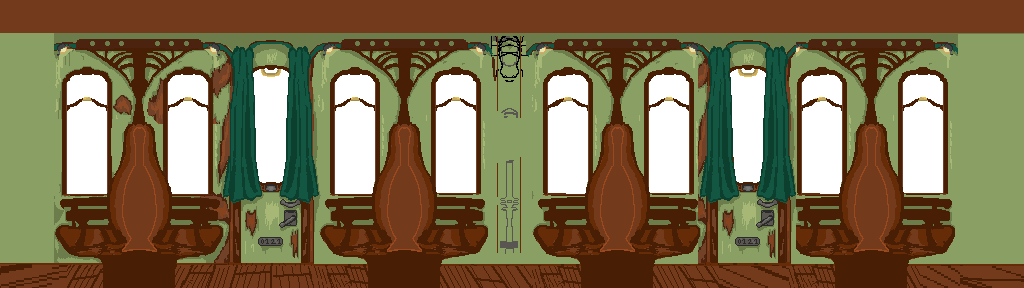
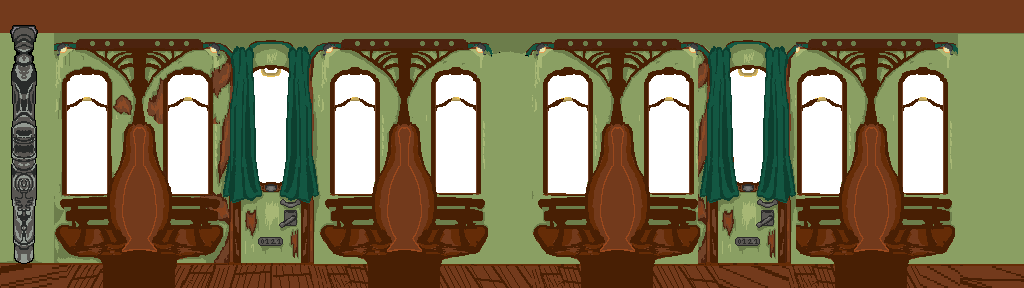
Updated Assets
Added new assets, moved them to better location. It now has a proper drop method for the valve

diff --git a/src/scenes/mainScene.js b/src/scenes/mainScene.js
@@ -39,13 +39,17 @@ export default class MainScene extends Phaser.Scene {
         //update the bounds as the player moves for the world based on scaling
         this.physics.world.setBounds(0, 0, background.width * background.scaleX, background.height * background.scaleY);
 
+       
+
         
         
           //interactable - needs to be changed to actual lever
           this.interactiveItem = this.physics.add.staticGroup();
-          const lever = this.interactiveItem.create(50, 400, 'egg');
+          const lever = this.interactiveItem.create(48, 444, 'valveArea').setScale(2.4);
           lever.firstInteraction = false;
           lever.name = 'leaver';
+
+          this.valveLayer = this.add.image(48, 444,'valveLayer').setScale(2).setVisible(false);
 
 
 
@@ -84,14 +88,15 @@ export default class MainScene extends Phaser.Scene {
         //collectable 
 
         this.eggs = this.physics.add.staticGroup();
-        this.eggs.create(200, 504, 'egg').setName('eggs_brown');
-        this.eggs.create(400, 504, 'egg').setName('eggs_brown');
-        this.eggs.create(600, 504, 'egg').setName('eggs_golden');
-        this.eggs.create(600, 504, 'egg').setName('eggs_golden');
-        this.eggs.create(600, 504, 'egg').setName('eggs_golden');
-        this.eggs.create(600, 504, 'egg').setName('eggs_golden');
-        this.eggs.create(600, 504, 'egg').setName('eggs_golden');
-        this.eggs.create(600, 504, 'egg').setName('eggs_golden');
+        this.eggs.create(200, 504, 'eggBrown').setName('eggs_brown');
+        this.eggs.create(400, 504, 'eggBrown').setName('eggs_brown');
+        this.eggs.create(1600, 118, 'eggGold').setName('eggs_golden');
+        this.eggs.create(900, 118, 'eggGold').setName('eggs_golden');
+        this.eggs.create(600, 504, 'eggWhite').setName('eggs_white');
+        this.eggs.create(1400, 178, 'eggGreen').setName('eggs_saphire');
+        this.eggs.create(600, 504, 'eggWhite').setName('eggs_white');
+        this.eggs.create(1800, 504, 'eggWhite').setName('eggs_white');
+
 
         //avoidable 
 
@@ -198,7 +203,7 @@ export default class MainScene extends Phaser.Scene {
         this.facingDirection = handleJumping(this, -250, 340);
         console.log('COUNTER ', this.eggCounter);
         if(this.eggCounter === 8){
-            this.eggs.create(900,504, 'egg').setName('valve');
+            this.eggs.create(900,504, 'valveDrop').setName('valve');
             this.eggCounter =0; 
         }
     }

diff --git a/src/scenes/menuScene.js b/src/scenes/menuScene.js
@@ -13,17 +13,56 @@ export default class MenuScene extends Phaser.Scene {
             fill: '#ffffff',
         }).setOrigin(0.5);
 
+        
+         //lets create a user name
+        this.add.text(width / 2, height / 2 - 50, 'Enter YOUR username: ', 
+            {
+            fontSize: '32px',
+            fill: '#ffffff'
+        } 
+        ).setOrigin(0.5);
+    //the bits in style are css
+        const inputElement = this.add.dom(
+            width /2,
+            height/2 , 
+            'input',{
+                type: 'text', 
+                name: 'username', 
+                placeholder: 'Username', 
+                style: 'font-size:20px; width: 200px; padding: 10px;'
+            }
+        ).setOrigin(0.5);
+
+        console.log('input value', inputElement);
+
         // "Start Game" button
-        const startButton = this.add.text(width / 2, height / 2, 'Start Game', {
-            font: '30px Arial',
-            fill: '#ff0',
-        })
-            .setOrigin(0.5)
-            .setInteractive();
+    const startButton = this.add.dom( width / 2, height / 2 + 50, 
+    'button', { style: 'font-size: 20px; padding: 10px 20px;' }, 
+    'Start Game' ).setOrigin(0.5);
+           
+        startButton.addListener('click');
+         startButton.on('click', () => { 
+            const inputUsername = inputElement.node;
+            console.log('input node value', inputUsername.value);
+             if (inputUsername && inputUsername.value.trim() !=='') { 
 
-        startButton.on('pointerdown', () => {
-            this.scene.start('MainScene'); 
+                //this is the code area that communicates with the backend docker container
+                //fetch end point, get respons then do something
+
+
+
+
+
+                this.scene.start('MainScene', { username: inputUsername.value });
+             } 
+             else { 
+                this.add.text( width / 2, height / 2 + 100,
+                     'Please enter a username',
+                      { fontSize: '20px', fill: '#ff0000' } )
+                      .setOrigin(0.5);
+                     }
+
         });
-
     }
 }
+

diff --git a/src/js/preload.js b/src/js/preload.js
@@ -9,7 +9,13 @@ export function preload() {
     this.load.spritesheet('characterJumpLeft', 'assets/left_jump_sprite_sheet.png', { frameWidth: 64, frameHeight: 70 });
     this.load.spritesheet('characterRunLeft', 'assets/left_run_sprite_sheet.png', { frameWidth: 70, frameHeight: 70 });
     this.load.spritesheet('characterRunRight', 'assets/run_sprite_sheet.png', { frameWidth: 70, frameHeight: 70 });
-    this.load.image('egg', 'assets/place_holder.png');
+    this.load.image('eggBrown', 'assets/brown_egg.png');
+    this.load.image('eggGold', 'assets/gold_egg.png');
+    this.load.image('eggGreen', 'assets/green_egg.png');
+    this.load.image('eggWhite', 'assets/white_egg.png');
+    this.load.image('valveDrop', 'assets/valve_drop.png');
+    this.load.image('valveArea', 'assets/interactive_valve_area.png')
+    this.load.image('valveLayer', 'assets/valve_layer.png')
     this.load.image("ground",'assets/ground.png');
     this.load.image('enemy', 'assets/placeholder_enemy.png',{frameWidth:104, frameHeight: 192});
     this.load.image('steam', 'assets/steam.png');

diff --git a/src/scenes/overlayScene.js b/src/scenes/overlayScene.js
@@ -63,6 +63,7 @@ export default class JournalOverlayScene extends Phaser.Scene {
         container.add(this.add.text(startX, startY, `Brown Eggs: ${inventory.collectables.eggs.brown}`, { fill: '#fff' }));
         container.add(this.add.text(startX, startY + lineHeight, `White Eggs: ${inventory.collectables.eggs.white}`, { fill: '#fff' })); 
         container.add(this.add.text(startX, startY + 2 * lineHeight, `Golden Eggs: ${inventory.collectables.eggs.golden}`, { fill: '#fff' }));
-        container.add(this.add.text(startX, startY + 4 * lineHeight, `Valve?: ${inventory.equippable.valve}`, { fill: '#fff' }));
+        container.add(this.add.text(startX, startY + 3* lineHeight, `Saphire Eggs: ${inventory.collectables.eggs.saphire}`, { fill: '#fff' }));
+        container.add(this.add.text(startX, startY + 6 * lineHeight, `Valve: ${inventory.equippable.valve}`, { fill: '#fff' }));
     }
 }

diff --git a/src/js/collision.js b/src/js/collision.js
@@ -24,6 +24,7 @@ function inventoryUpdator(itemName, scene){
             if (type === 'brown') collectables.eggs.brown += 1;
             else if (type === 'white') collectables.eggs.white += 1;
             else if (type === 'golden') collectables.eggs.golden += 1;
+            else if (type === 'saphire') collectables.eggs.saphire += 1;
           },
           posters: (collectables) => {
             const type = itemName.toString().split('_')[1];

diff --git a/src/scenes/startScene.js b/src/scenes/startScene.js
@@ -72,10 +72,21 @@ export default class StartScene extends Phaser.Scene {
     }
 
     create() {
+
+       
+
+
+
+
+
+
+
         this.music = this.sound.play('mainMusic',{loop: true});
         const logo= this.add.image(this.sys.game.config.width /2, this.sys.game.config.height/2, 'logo');
         logo.setScale(0.5);
         this.logo =logo;
+
+        
 
 
         if (logo) {

diff --git a/src/js/movement.js b/src/js/movement.js
@@ -121,7 +121,9 @@ export function interactionArea(scene,staticGroup){
 //i need an action that occurs once the useValve is initated 
 function useValve(scene, item){
 
+
     scene.inventory.equippable.valve = false;
+    scene.valveLayer.setVisible(true);
     scene.data.set('inventory', scene.inventory);
     console.log('wooo valve used');
 

diff --git a/src/ui/chickenInventoryWindow.js b/src/ui/chickenInventoryWindow.js
@@ -24,7 +24,8 @@ return{
         eggs: {
             brown: 0,
             white: 0,
-            golden: 0 // Example of a different type of egg
+            golden: 0,
+            saphire:0,
         },
         posters: {
             chickenRecipe: 0,

diff --git a/src/js/config.js b/src/js/config.js
@@ -12,6 +12,8 @@ export const gameConfig = {
     type: Phaser.AUTO,
     width: 1024,
     height: 576,
+    parent: 'game-container',
+    dom: {createContainer: true},
     physics: {
         default: 'arcade',
         arcade: {
